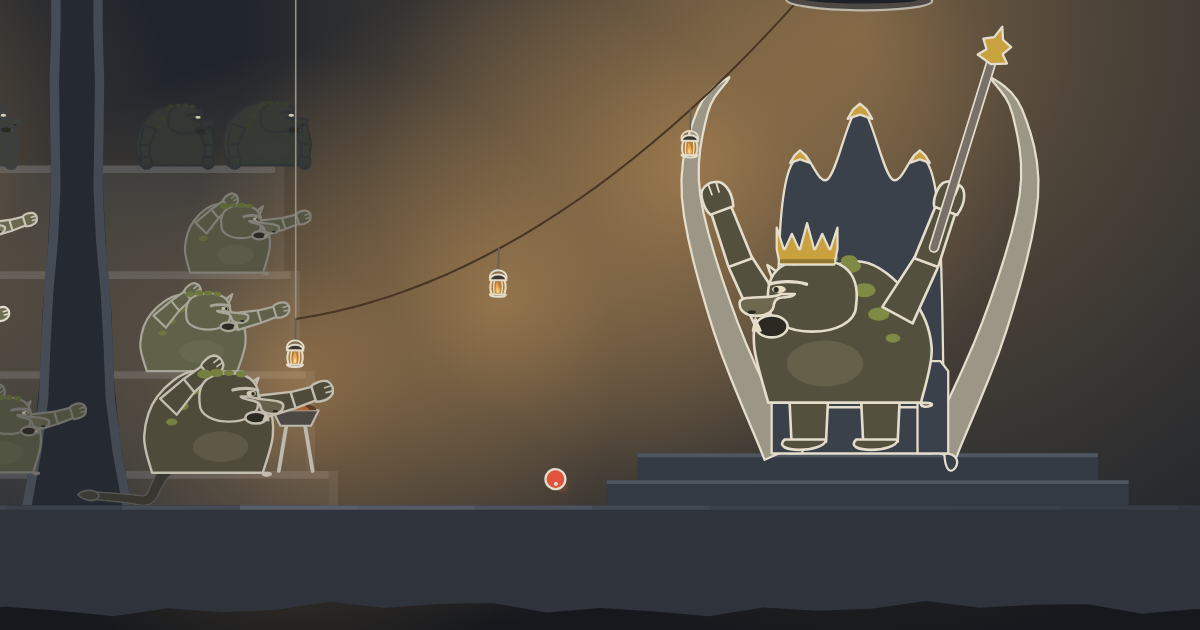
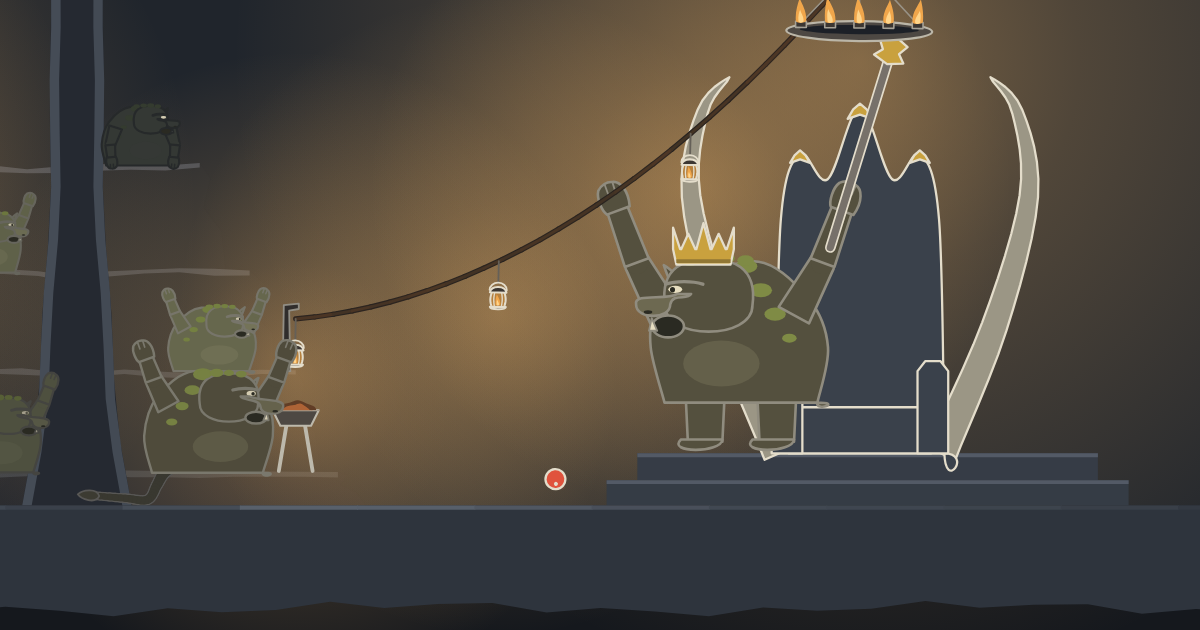
Mountain King: the court staggered on its ledges, the geyser's dead plumbing gone, a new card
- 40.2-58 the court: no two trolls stand one over another in a column, so the ledges read
  as a crowd on rock and not as shelves.
- The finale no longer passes a height envelope and a steam call that the geyser's
  drawing ignores (plumeAt's `h`, fall-water's `steam`).
- The share card redrawn at its still (64.5): the King risen off his throne, roaring,
  the court's arms up behind him.

diff --git a/apps/rube/src/shows/versions/mountain-king/dovre/finale/fall.ts b/apps/rube/src/shows/versions/mountain-king/dovre/finale/fall.ts
@@ -9,7 +9,7 @@ import { drawTroll, type Pen, type TrollLook } from '../troll'
 import { SKY, STONE, WORKS } from '../worlds'
 import { DRUM2, DRUMMERS, farEdge, FLOOR, LEAP } from '../under/drum-clock'
 import { breach, capCracks, collar, collarFront, dropped, G, hollowOf, puff, stone, thrown, vent, VENT, type Floor, type Stone } from './fall-rock'
-import { column, crown, plume, steam } from './fall-water'
+import { column, crown, plume } from './fall-water'
 
 /**
  * The director's: the coda (134.25 → the end). Ibsen's order: the bells ring, the trolls flee, the hall comes down,
@@ -719,7 +719,7 @@ function pressed(T: number, y: number): number {
 /** The plume's top at the height of the second chord's surge (world y): at the top edge of the wide frame over the summit. */
 const SURGE = -30.5
 
-function plumeAt(T: number): { top: number; h: number } {
+function plumeAt(T: number): { top: number } {
   const floor = skyline(COL) + 1.96
   // The surge: fast off his top at LAST2 (he is thrown off it east), easing into its height in about half a second.
   const u = T - LAST2
@@ -732,7 +732,7 @@ function plumeAt(T: number): { top: number; h: number } {
   // Then the water drains back down the vent, gathering speed, out of every frame.
   const drain = Math.max(0, T - (LAST2 + 9.5))
   const low = floor + 1.2 + (3 * drain * drain) / (drain + 1.2)
-  return { top: top * (1 - gone) + low * gone, h: smooth(T, LAST2, LAST2 + 0.5) * (1 - 0.85 * sink) * (1 - gone) }
+  return { top: top * (1 - gone) + low * gone }
 }
 
 function drawFall(p: p5, s: State, c: Pen & { t: number }): void {
@@ -806,9 +806,7 @@ function drawFall(p: p5, s: State, c: Pen & { t: number }): void {
     if (yb > yt) column(p, c, X, yb, yt, T, fo, sun)
     if (riding) crown(p, c, bx, by, T, fo, pressed(T, ball.y + ORIGIN[1]), sun)
     else {
-      const pl = plumeAt(T)
-      plume(p, c, X, ly(surface(COL, T)), ly(pl.top), T, pl.h, d, (x) => ly(surface(x + ORIGIN[0], T)))
-      steam(p, c, X, ly(surface(COL, T)) - 0.2, T, smooth(T, LAST2 + 6, LAST2 + 9) * (1 - smooth(T, LAST2 + 12, LAST2 + 17)), d)
+      plume(p, c, X, ly(surface(COL, T)), ly(plumeAt(T).top), T, d, (x) => ly(surface(x + ORIGIN[0], T)))
     }
   }
 }

diff --git a/apps/rube/src/shows/versions/mountain-king/dovre/hall/hall-court.ts b/apps/rube/src/shows/versions/mountain-king/dovre/hall/hall-court.ts
@@ -43,15 +43,16 @@ export const COURT: Courtier[] = [
   { row: 0, x: 8.4, size: 1.5, seed: 103, doze: 0.18, chase: { to: 14.1 } },
   { row: 0, x: 11.2, size: 2.0, seed: 104, hide: TROLL.old, doze: 0.5, station: { tail: TAIL_C, flick: FLICK_C, snort: SNORT_C, toward: 1 }, chase: { to: 14.35, grab: GRAB } },
   // The ledges: fewer, and no two alike (a big one slumped, small ones leaning in), clear of the pillars (4.3, 9.5).
-  { row: 1, x: 1.55, size: 1.3, seed: 111, doze: 0.45 },
+  // Staggered, so no two stand one over the other in a column (the tiers must not read as shelves).
+  { row: 1, x: 3.2, size: 1.3, seed: 111, doze: 0.45 },
   { row: 1, x: 6.95, size: 1.9, seed: 113, hide: TROLL.old, doze: -0.5 },
   { row: 1, x: 11.25, size: 1.25, seed: 115, doze: 0.2 },
-  { row: 2, x: 2.7, size: 1.5, seed: 122, doze: -0.35 },
-  { row: 2, x: 7.85, size: 1.2, seed: 124, doze: 0.4 },
+  { row: 2, x: 1.3, size: 1.5, seed: 122, doze: -0.35 },
+  { row: 2, x: 8.3, size: 1.2, seed: 124, doze: 0.4 },
   // The gallery in the dark: silhouettes, their eyes the only thing that shows.
-  { row: 3, x: 1.6, size: 1.2, seed: 131, doze: 0.2 },
-  { row: 3, x: 6.3, size: 1.1, seed: 133, doze: 0.25 },
-  { row: 3, x: 10.6, size: 1.15, seed: 136, doze: -0.25 },
+  { row: 3, x: 2.6, size: 1.2, seed: 131, doze: 0.2 },
+  { row: 3, x: 5.95, size: 1.1, seed: 133, doze: 0.25 },
+  { row: 3, x: 10.3, size: 1.15, seed: 136, doze: -0.25 },
 ]
 
 export const SEAT_Y = (row: number): number => (row === 3 ? GALLERY_Y : ROW_Y[row])

diff --git a/apps/rube/src/shows/versions/mountain-king/dovre/finale/fall-water.ts b/apps/rube/src/shows/versions/mountain-king/dovre/finale/fall-water.ts
@@ -315,7 +315,7 @@ type Pt2 = [number, number]
  * caller's top for the column (the burst climbs over it); `sun` the dawn on its east side. The caller's own
  * envelope (`_h`) is replaced by the burst's clock.
  */
-export function plume(p: p5, c: Pen, x: number, yBase: number, yTop: number, T: number, _h: number, sun: number, ground: (x: number) => number): void {
+export function plume(p: p5, c: Pen, x: number, yBase: number, yTop: number, T: number, sun: number, ground: (x: number) => number): void {
   const u = T - LAST2
   if (u < 0 || yBase - yTop < 0.05) return
   const { left } = burst(u)
@@ -362,8 +362,3 @@ export function plume(p: p5, c: Pen, x: number, yBase: number, yTop: number, T: 
   p.pop()
 }
 
-/**
- * Steam off the crater once the geyser has sunk: none. The burst is gone before the credits, and nothing rises from
- * the crater over them (a pale strand at the frame's edge read as the column still standing).
- */
-export function steam(_p: p5, _c: Pen, _x: number, _y: number, _T: number, _a: number, _sun: number): void {}
